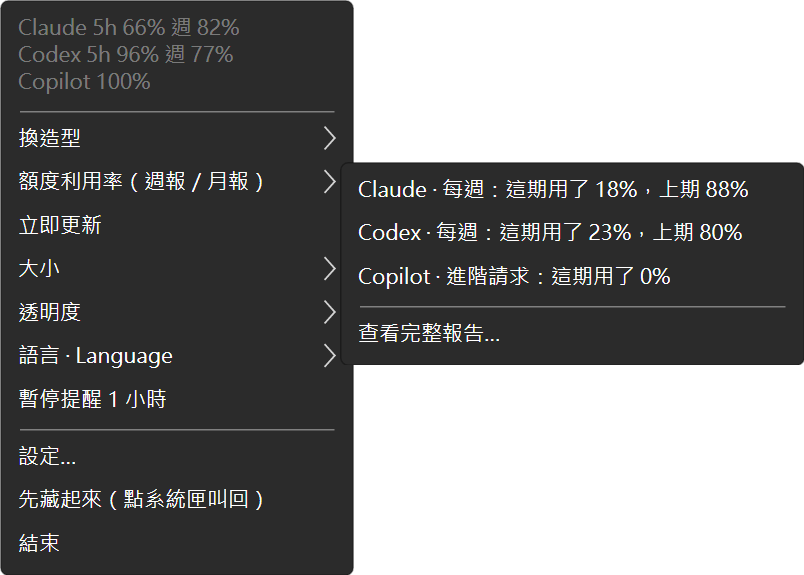
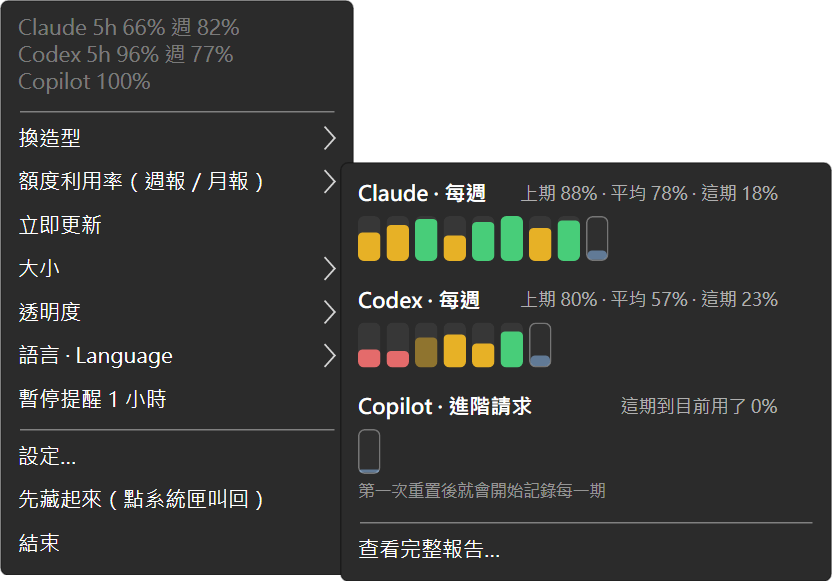
Menu: the quota-use charts right in the submenu
The user asked to see the report without going to the settings page: each weekly/monthly quota in the
"Quota use" submenu now shows the bars of its last 8 windows and the one in progress (hollow, neutral
blue: not good or bad yet) with "last · average · now"; the bars have tooltips with the dates. The chart
is shared (ReportChart) with the settings page, which also gets the bar of the window in progress.

diff --git a/xplat/SentriPet.Desktop/ReportChart.cs b/xplat/SentriPet.Desktop/ReportChart.cs
@@ -1,0 +1,105 @@
+using System;
+using System.Collections.Generic;
+using System.Linq;
+using Avalonia;
+using Avalonia.Controls;
+using Avalonia.Layout;
+using Avalonia.Media;
+
+namespace SentriPet
+{
+    /// <summary>
+    /// The quota-use bars (#16), in the widget's menu and on the settings page: one bar per finished weekly/monthly
+    /// window (its height is the share used: green used well, amber some wasted, red mostly wasted), and a hollow bar
+    /// for the window in progress.
+    /// </summary>
+    static class ReportChart
+    {
+        public static Color ColorFor(double used) { return Palette.Hex(used >= 80 ? "#4ADE80" : used >= 50 ? "#FBBF24" : "#F87171"); }
+
+        /// <param name="windows">finished windows, oldest first</param>
+        /// <param name="current">the window in progress (its Used so far), or null</param>
+        /// <param name="dates">a date under every bar (the settings page) or none (the menu: the tooltips have them)</param>
+        public static StackPanel Bars(IList<WindowResult> windows, Meter current, double height, double width, bool dates)
+        {
+            var sp = new StackPanel { Orientation = Orientation.Horizontal };
+            foreach (var r in windows)
+            {
+                var col = Column(r.Used, height, width, false, r.SeenToEnd ? 0.9 : 0.45);
+                if (dates) col.Children.Add(Date(r.EndedAt.ToLocalTime().Month + "/" + r.EndedAt.ToLocalTime().Day));
+                ToolTip.SetTip(col, L.F("{0} 重置：用掉 {1}", Fmt.When(r.EndedAt), Fmt.Pct(r.Used)) +
+                                    (r.SeenToEnd ? "" : "\n" + L.T("這一期最後一段 SentriPet 沒在執行，實際可能用得更多")) +
+                                    (r.NudgeLevel > 0 ? "\n" + L.T("這一期有催過你") : ""));
+                sp.Children.Add(col);
+            }
+            if (current != null)
+            {
+                var col = Column(current.Used, height, width, true, 0.5);
+                if (dates) col.Children.Add(Date(L.T("這期")));
+                ToolTip.SetTip(col, current.ResetsAt.HasValue
+                    ? L.F("這期到目前用了 {0}，{1} 重置", Fmt.Pct(current.Used), Fmt.When(current.ResetsAt))
+                    : L.F("這期到目前用了 {0}", Fmt.Pct(current.Used)));
+                sp.Children.Add(col);
+            }
+            return sp;
+        }
+
+        static StackPanel Column(double used, double height, double width, bool inProgress, double alpha)
+        {
+            var col = new StackPanel { Width = width, Margin = new Thickness(2, 0, 2, 0) };
+            var track = new Border
+            {
+                Height = height, CornerRadius = new CornerRadius(4), ClipToBounds = true,
+                Background = G.B(Colors.White, inProgress ? 0.02 : 0.06),
+                // the window in progress: an outline, so it reads as "not over yet"
+                BorderBrush = inProgress ? G.B(Colors.White, 0.35) : null,
+                BorderThickness = new Thickness(inProgress ? 1 : 0),
+            };
+            track.Child = new Border
+            {
+                Height = Math.Max(2, (height - (inProgress ? 2 : 0)) * Math.Max(0, Math.Min(100, used)) / 100),
+                VerticalAlignment = VerticalAlignment.Bottom,
+                // (a window in progress is not good or bad yet: a neutral colour)
+                Background = G.B(inProgress ? Palette.Hex("#93C5FD") : ColorFor(used), alpha), CornerRadius = new CornerRadius(3),
+            };
+            col.Children.Add(track);
+            return col;
+        }
+
+        static TextBlock Date(string text)
+        {
+            return new TextBlock { Text = text, FontSize = 9.5, Opacity = 0.6, HorizontalAlignment = HorizontalAlignment.Center, Margin = new Thickness(0, 3, 0, 0) };
+        }
+
+        /// <summary>
+        /// A quota in the menu: its name and the numbers (last window, average, this one so far) above its bars — the
+        /// report at a glance, without opening the settings.
+        /// </summary>
+        public static Control MenuEntry(string name, Meter current, IList<WindowResult> past)
+        {
+            var box = new StackPanel { MinWidth = 280, Margin = new Thickness(0, 3, 0, 3) };
+            var head = new Grid();
+            head.ColumnDefinitions.Add(new ColumnDefinition { Width = GridLength.Auto });
+            head.ColumnDefinitions.Add(new ColumnDefinition { Width = new GridLength(1, GridUnitType.Star) });
+            head.Children.Add(new TextBlock { Text = name + " · " + current.Label, FontWeight = FontWeight.SemiBold });
+            var last = past.Count > 0 ? past[past.Count - 1] : null;
+            var numbers = new TextBlock
+            {
+                Text = last != null
+                    ? L.F("上期 {0} · 平均 {1} · 這期 {2}", Fmt.Pct(last.Used), Fmt.Pct(past.Average(r => r.Used)), Fmt.Pct(current.Used))
+                    : L.F("這期到目前用了 {0}", Fmt.Pct(current.Used)),
+                Opacity = 0.65, FontSize = 12, Margin = new Thickness(16, 0, 0, 0),
+                HorizontalAlignment = HorizontalAlignment.Right, VerticalAlignment = VerticalAlignment.Center,
+            };
+            Grid.SetColumn(numbers, 1);
+            head.Children.Add(numbers);
+            box.Children.Add(head);
+            var bars = Bars(past, current, 30, 15, false);
+            bars.Margin = new Thickness(-2, 6, 0, 0);
+            box.Children.Add(bars);
+            if (last == null)
+                box.Children.Add(new TextBlock { Text = L.T("第一次重置後就會開始記錄每一期"), FontSize = 11, Opacity = 0.5, Margin = new Thickness(0, 4, 0, 0) });
+            return box;
+        }
+    }
+}

diff --git a/xplat/SentriPet.Desktop/DesktopTests.cs b/xplat/SentriPet.Desktop/DesktopTests.cs
@@ -418,11 +418,29 @@ namespace SentriPet
                     string.Join(", ", items.OfType<MenuItem>().Where(m => rare.Contains(m.Header as string)).Select(m => m.Header)));
                 var report = subs.FirstOrDefault(m => Equals(m.Header, L.T("額度利用率（週報／月報）")));
                 t.Check("右鍵選單：額度利用率緊接在換造型後面", report != null && items.IndexOf(report) == items.IndexOf(subs.First(m => Equals(m.Header, L.T("換造型")))) + 1);
-                var lines = report != null ? ((IEnumerable<object>)report.ItemsSource).OfType<MenuItem>().Select(m => m.Header as string).ToList() : new List<string>();
-                t.Check("額度利用率：每個週額度一行（這期與上期）、最後是完整報告",
-                    lines.Count(l => l != null && l.StartsWith("Claude · ")) == 1 && lines.Any(l => l != null && l.StartsWith("Codex · ")) &&
-                    lines.First(l => l != null && l.StartsWith("Claude · ")).Contains(Fmt.Pct(88)) && lines.Last() == L.T("查看完整報告…"),
-                    string.Join(" | ", lines));
+                var entries = report != null ? ((IEnumerable<object>)report.ItemsSource).OfType<MenuItem>().ToList() : new List<MenuItem>();
+                Func<object, List<Control>> all = null;
+                all = o =>
+                {
+                    var list = new List<Control>();
+                    var c = o as Control;
+                    if (c == null) return list;
+                    list.Add(c);
+                    var panel = c as Panel;
+                    if (panel != null) foreach (var ch in panel.Children) list.AddRange(all(ch));
+                    var border = c as Border;
+                    if (border != null) list.AddRange(all(border.Child));
+                    return list;
+                };
+                Func<MenuItem, string> text = m => m.Header as string ?? string.Join(" ", all(m.Header).OfType<TextBlock>().Select(x => x.Text));
+                var claude = entries.FirstOrDefault(m => text(m).StartsWith("Claude · "));
+                // the sample report has 8 past Claude weeks: 8 bars and the week in progress
+                var claudeBars = claude != null ? all(claude.Header).OfType<StackPanel>().FirstOrDefault(sp => sp.Orientation == Avalonia.Layout.Orientation.Horizontal) : null;
+                t.Check("額度利用率：選單裡直接有圖表（過去 8 期＋這期）與數字（上期 88%）",
+                    claude != null && claudeBars != null && claudeBars.Children.Count == 9 && text(claude).Contains(Fmt.Pct(88)),
+                    claude == null ? "no Claude entry" : text(claude) + " / " + (claudeBars == null ? "no bars" : claudeBars.Children.Count + " bars"));
+                t.Check("額度利用率：每個週／月額度一項，最後是完整報告",
+                    entries.Any(m => text(m).StartsWith("Codex · ")) && text(entries.Last()) == L.T("查看完整報告…"), string.Join(" | ", entries.Select(text)));
             });
             Progress = "settings page";
             t.Run("settings", () =>

diff --git a/xplat/SentriPet.Desktop/SettingsWindow.cs b/xplat/SentriPet.Desktop/SettingsWindow.cs
@@ -534,38 +534,17 @@ namespace SentriPet
                 var last = g.OrderBy(r => r.EndedAt).ToList();
                 if (last.Count > 8) last = last.GetRange(last.Count - 8, 8);
                 var newest = last[last.Count - 1];
+                // (the window in progress, when this quota is shown right now)
+                var view = ctl.Views.FirstOrDefault(v => v.Id == newest.Provider);
+                var current = view != null ? view.Meters.FirstOrDefault(m => m.Key == newest.Meter && !m.Unlimited) : null;
+                var bars = ReportChart.Bars(last, current, 40, 26, true);
+                bars.HorizontalAlignment = HorizontalAlignment.Right;
                 Row(body, newest.Name + " · " + newest.Label,
                     L.F("最近 {0} 期平均用掉 {1}，最近一期 {2}", last.Count, Fmt.Pct(last.Average(r => r.Used)), Fmt.Pct(newest.Used)),
-                    UsageBars(last));
+                    bars);
             }
             Row(body, L.T("重置時跳通知總結"), L.T("週額度重置時桌寵會說那一期用掉多少；開啟後也會跳一則通知"),
                 Toggle(S.WeeklyReport, v => { S.WeeklyReport = v; SaveSoon(); }));
-        }
-
-        /// <summary>One bar per window: its height is the share used (green: used well, amber: some wasted, red: mostly wasted).</summary>
-        static Control UsageBars(List<WindowResult> windows)
-        {
-            const double H = 40;
-            var sp = new StackPanel { Orientation = Orientation.Horizontal, HorizontalAlignment = HorizontalAlignment.Right };
-            foreach (var r in windows)
-            {
-                var color = Palette.Hex(r.Used >= 80 ? "#4ADE80" : r.Used >= 50 ? "#FBBF24" : "#F87171");
-                var col = new StackPanel { Width = 26, Margin = new Thickness(2, 0, 2, 0) };
-                var track = new Border { Height = H, Background = G.B(Colors.White, 0.06), CornerRadius = new CornerRadius(4), ClipToBounds = true };
-                track.Child = new Border
-                {
-                    Height = Math.Max(2, H * r.Used / 100), VerticalAlignment = VerticalAlignment.Bottom,
-                    Background = G.B(color, r.SeenToEnd ? 0.9 : 0.45), CornerRadius = new CornerRadius(4),
-                };
-                col.Children.Add(track);
-                var local = r.EndedAt.ToLocalTime();
-                col.Children.Add(new TextBlock { Text = local.Month + "/" + local.Day, FontSize = 9.5, Foreground = G.B(SubC), HorizontalAlignment = HorizontalAlignment.Center, Margin = new Thickness(0, 3, 0, 0) });
-                ToolTip.SetTip(col, L.F("{0} 重置：用掉 {1}", Fmt.When(r.EndedAt), Fmt.Pct(r.Used)) +
-                                    (r.SeenToEnd ? "" : "\n" + L.T("這一期最後一段 SentriPet 沒在執行，實際可能用得更多")) +
-                                    (r.NudgeLevel > 0 ? "\n" + L.T("這一期有催過你") : ""));
-                sp.Children.Add(col);
-            }
-            return sp;
         }
 
         /// <summary>Quiet hours (#17): on/off, from–to and the weekdays they apply to.</summary>

diff --git a/xplat/SentriPet.Desktop/DesktopController.cs b/xplat/SentriPet.Desktop/DesktopController.cs
@@ -571,7 +571,10 @@ namespace SentriPet
             return items;
         }
 
-        /// <summary>The weekly/monthly quotas: how much of this window is used so far and how the last one ended (#16), and the full report.</summary>
+        /// <summary>
+        /// The weekly/monthly quotas at a glance (#16): for each, the bars of its last 8 windows and the one in progress,
+        /// with the numbers — right in the menu; "Full report…" opens the settings page there.
+        /// </summary>
         MenuItem ReportMenu()
         {
             var menu = new MenuItem { Header = L.T("額度利用率（週報／月報）") };
@@ -580,10 +583,11 @@ namespace SentriPet
             foreach (var v in views)
                 foreach (var m in v.Meters.Where(x => !x.Unlimited && x.WindowMinutes >= UsageHistory.ReportWindowMinutes))
                 {
-                    var last = results.LastOrDefault(r => r.Provider == v.Id && r.Meter == m.Key);
-                    list.Add(Item(last != null
-                        ? L.F("{0} · {1}：這期用了 {2}，上期 {3}", v.Name, m.Label, Fmt.Pct(m.Used), Fmt.Pct(last.Used))
-                        : L.F("{0} · {1}：這期用了 {2}", v.Name, m.Label, Fmt.Pct(m.Used)), OpenReport));
+                    var past = results.Where(r => r.Provider == v.Id && r.Meter == m.Key).ToList();
+                    if (past.Count > 8) past = past.GetRange(past.Count - 8, 8);
+                    var entry = Item(v.Name + " · " + m.Label, OpenReport);
+                    entry.Header = ReportChart.MenuEntry(v.Name, m, past);
+                    list.Add(entry);
                 }
             if (list.Count == 0) list.Add(new MenuItem { Header = L.T("目前沒有每週或每月的額度"), IsEnabled = false });
             list.Add(new Separator());

diff --git a/README.md b/README.md
@@ -151,7 +151,7 @@ SentriPet looks for AI tools on your computer and every one it finds becomes a p
 | Drag | Move it (snaps to screen edges); the position is remembered |
 | Click | The pet answers |
 | Hover | Details: every quota, reset times, data source |
-| Right-click | Menu: change look (each look with its mood, or leave it to fate), quota use this week/month and last time (with the full report), size, opacity, move to screen, language, pause reminders. The switches you rarely change (always on top, click-through, talking, notifications, "use it" nudges, start at sign-in) are in the settings |
+| Right-click | Menu: change look (each look with its mood, or leave it to fate), quota use at a glance (bars of the last 8 weekly/monthly windows and the one in progress, with the numbers), size, opacity, move to screen, language, pause reminders. The switches you rarely change (always on top, click-through, talking, notifications, "use it" nudges, start at sign-in) are in the settings |
 | Double-click | Settings |
 | Tray / menu-bar icon | Left click shows/hides the pet; right click opens the menu (turn click-through off here). The jelly in the icon is as full as your lowest quota; a blue dot means an AI is working |
 

diff --git a/docs/DEVLOG.md b/docs/DEVLOG.md
@@ -249,5 +249,7 @@ xplat/                新的跨平台版（.NET 10）
 - 2026-09-29：**右鍵選單整理**（使用者回饋）：不常動的開關（永遠在最上層、滑鼠穿透、會說話、額度提醒通知、催我用完週額度、
   開機自動啟動）只留在設定頁（系統匣選單仍保留滑鼠穿透，關掉它的唯一途徑）；換造型下面新增「額度利用率（週報／月報）」子選單：
   每個週／月額度一行「這期用了 X%，上期 Y%」，以及「查看完整報告…」（打開設定頁並捲到長條圖）。自我測試 +3 項，README 截圖與說明更新。
+  使用者接著問能不能不用跳到設定頁就看圖表：子選單直接顯示每個額度最近 8 期的長條圖＋這期（空心、中性藍色，還沒結束不算好壞）與
+  「上期／平均／這期」，滑鼠停在長條上有日期與數值；長條圖抽成 `ReportChart`，設定頁也加上「這期」那根。
 - 還沒做、需要實機才能確認的：Mac／Linux 實體電腦上的長時間試用（拖曳、系統匣、通知、開機啟動、滑鼠穿透、macOS 的眼睛）；
   Linux 上的 Claude 用量要開啟「連接 Claude Code 狀態列」。
